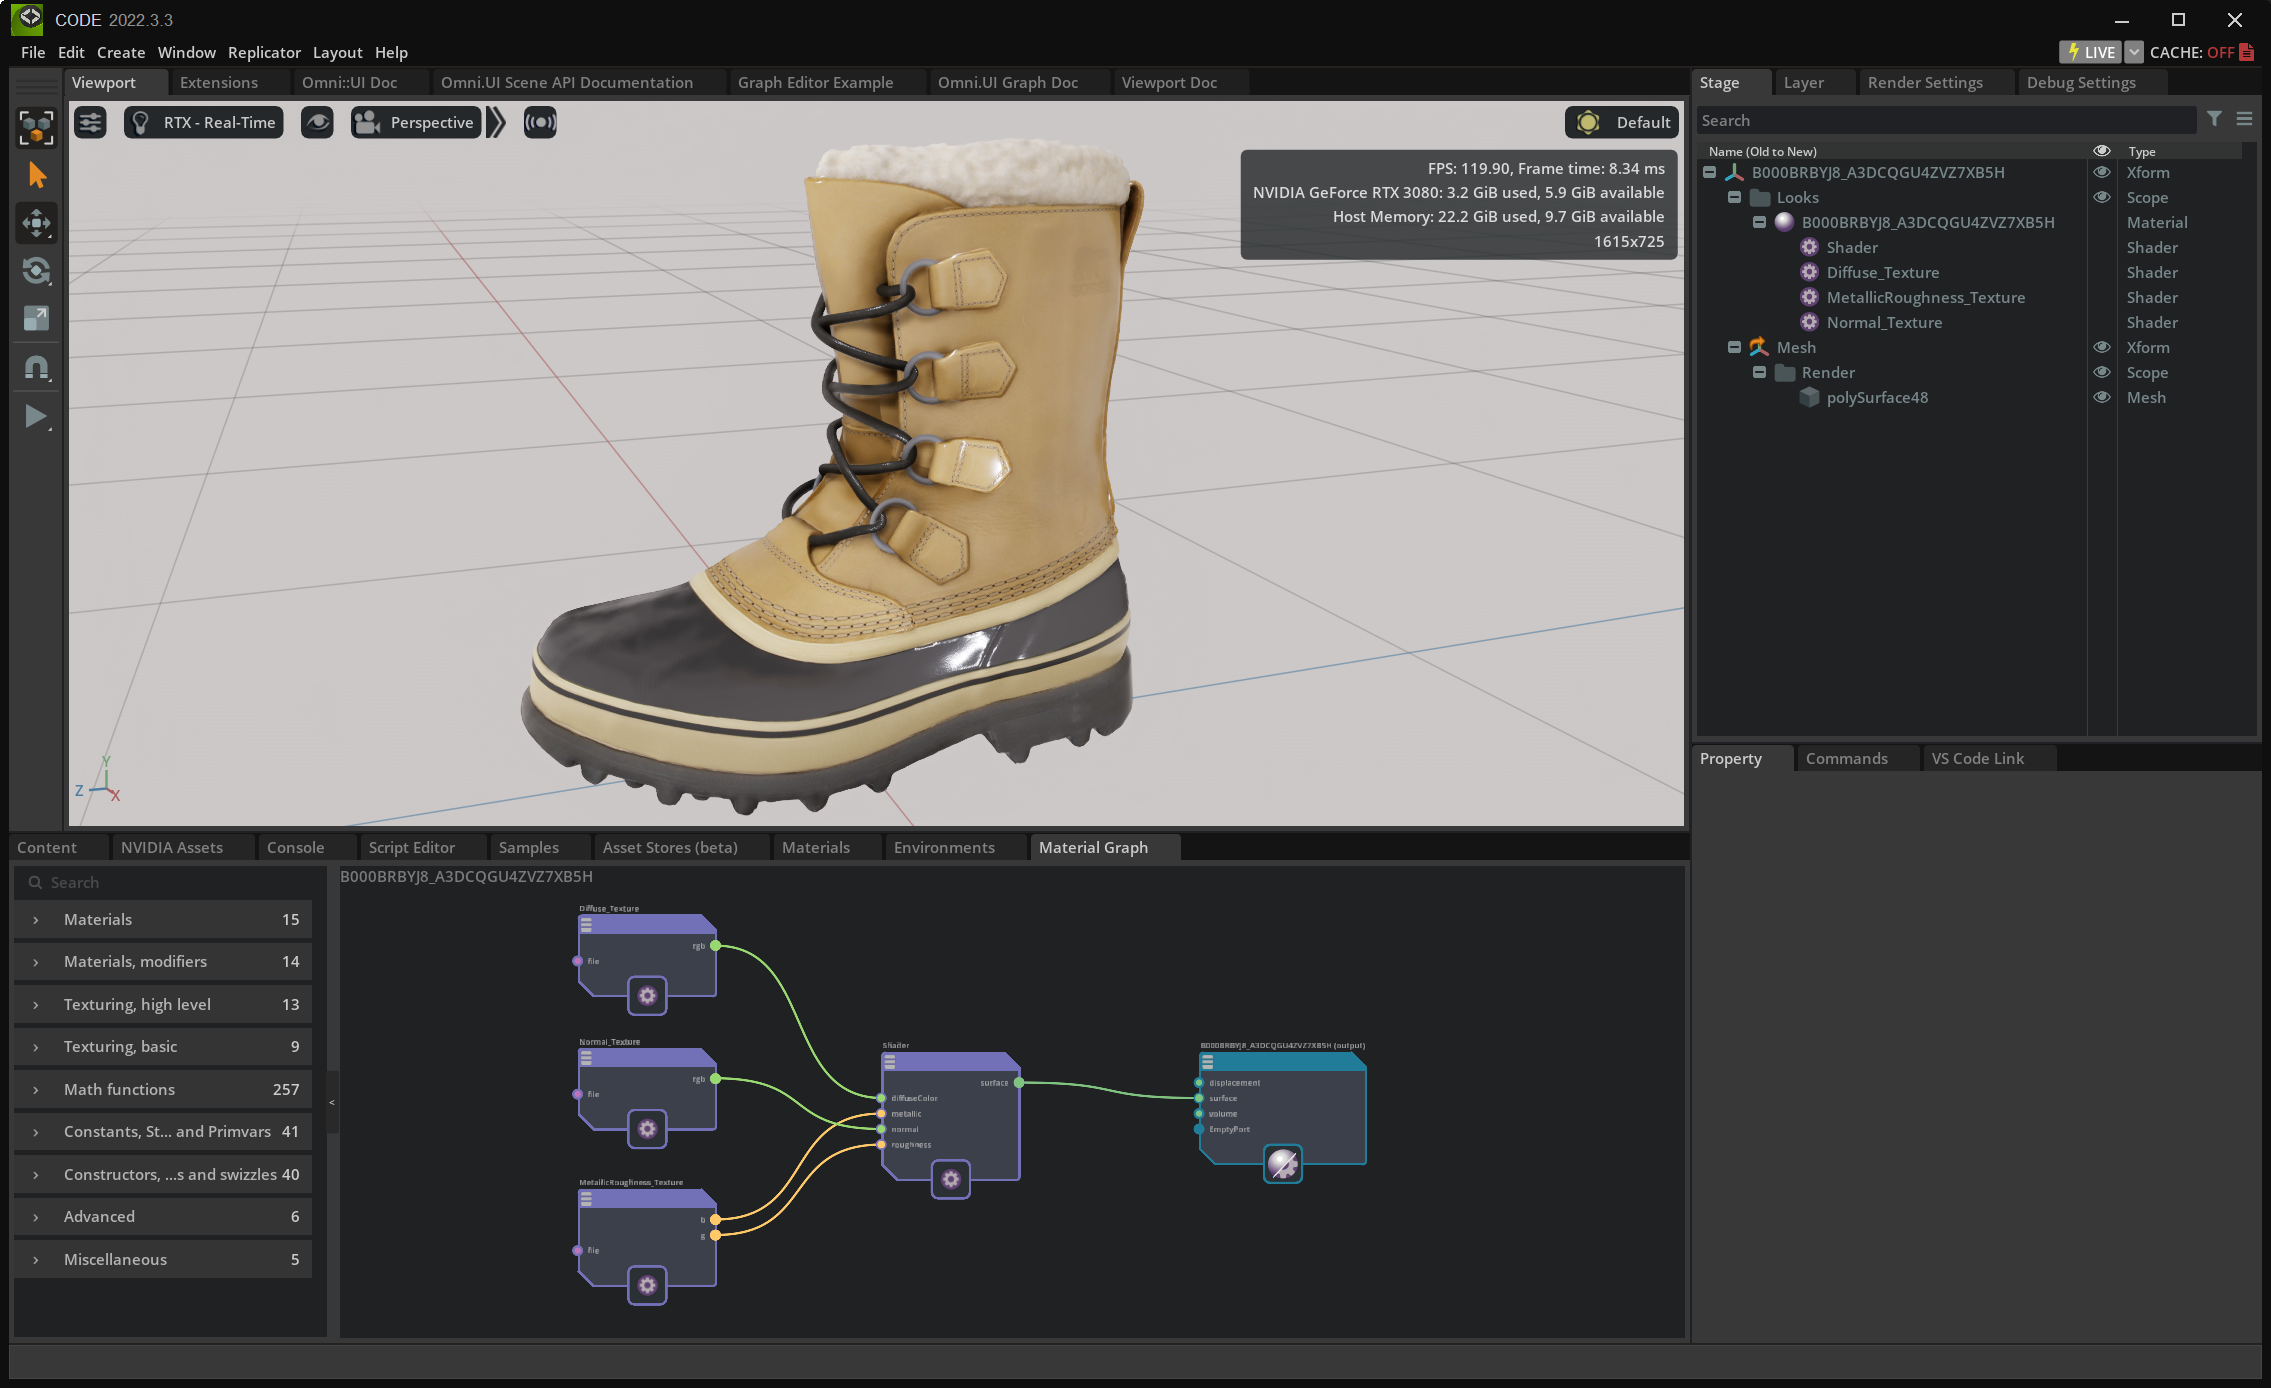
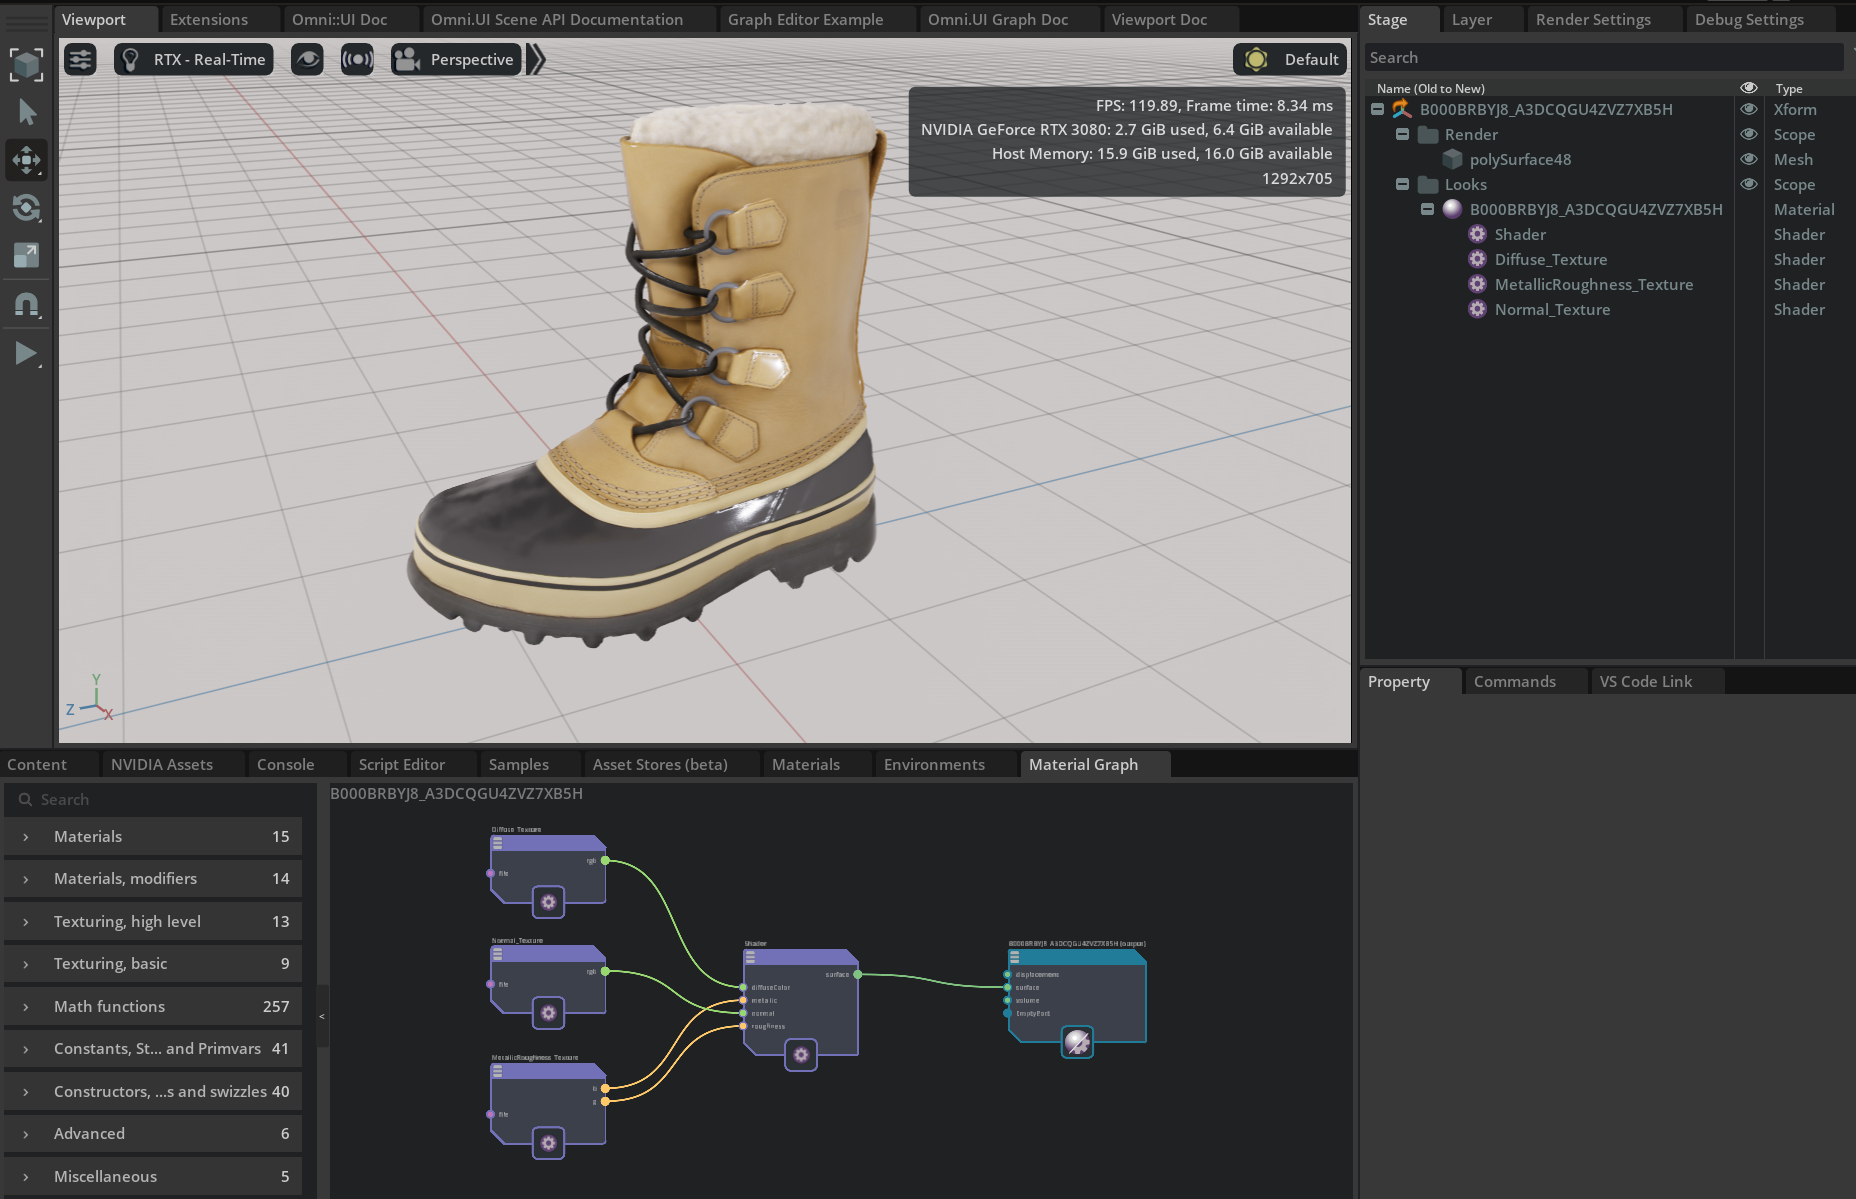
modify

diff --git a/CheckAndGenerate.py b/CheckAndGenerate.py
@@ -6,6 +6,11 @@ class USDGenerator:
         self.stage = stage
         self.prim_path = f"/{prim_name}"
         self.root_prim = stage.DefinePrim(self.prim_path, "Xform")
+
+        # stage.SetDefaultPrim(self.root_prim)
+        # xformable = UsdGeom.Xformable(self.root_prim)
+        # self.transform_op = xformable.AddTransformOp()
+
         self.looks_scope = stage.DefinePrim(f"{self.prim_path}/Looks", "Scope")
 
     def create_material(self, material_name):
@@ -38,7 +43,6 @@ class USDGenerator:
 
     def setup_material_with_textures(self, material_name,diffuse_path, mr_path, normal_path):
         shader = self.create_material(material_name)
-        # 创建纹理着色器
         diffuse_texture = self.create_texture_shader(diffuse_path, "Diffuse")
         mr_texture = self.create_texture_shader(mr_path, "MetallicRoughness")
         normal_texture = self.create_texture_shader(normal_path, "Normal")
@@ -55,8 +59,13 @@ class USDGenerator:
         mesh = self.stage.DefinePrim(f"{self.prim_path}/Mesh", "Xform")
         mesh.GetReferences().AddReference(model_usd_path)
 
-        UsdShade.MaterialBindingAPI(mesh).Bind(self.material)
+        #fixed left hand resources to right hand
+        xformable = UsdGeom.Xformable(mesh)
+        xformable.AddRotateXYZOp().Set(Gf.Vec3f(-90.0,0.0,0.0))
+        #too small size, camera near clip
+        xformable.AddScaleOp().Set(Gf.Vec3f(1000.0, 1000.0, 1000.0))
 
+        UsdShade.MaterialBindingAPI(mesh).Bind(self.material)
 
 class FileProcessor:
     required_files = ["_base.usd", "_texture_diff.png", "_texture_MR.png", "_texture_normal.png"]
@@ -107,7 +116,6 @@ def generate_usd_from_folder(folder_path):
     for prefix, file_paths in valid_prefixes.items():
         output_file = os.path.join(folder_path, f"{prefix}_MatGeo.usd")
         stage = Usd.Stage.CreateNew(output_file)
-
         usd_generator = USDGenerator(stage, prim_name=prefix)
         usd_generator.setup_material_with_textures(
             material_name=prefix,
@@ -118,7 +126,9 @@ def generate_usd_from_folder(folder_path):
         usd_generator.add_mesh_with_material_binding(model_usd_path=file_paths["_base.usd"])
 
         stage.GetRootLayer().Save()
+        #print(stage.ExportToString())
         print(f"USD file '{output_file}' created.")
+
 
 # input folder path
 folder_path = input("Enter the file path: ")
